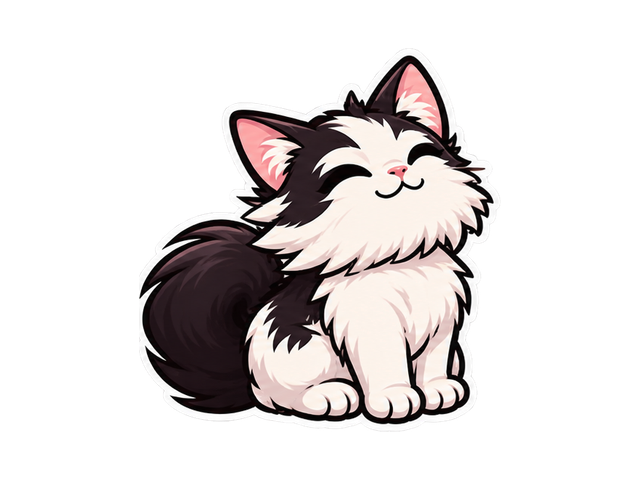
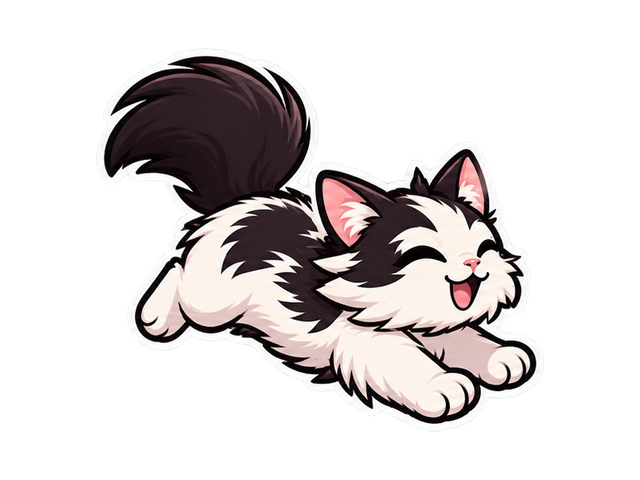
Fix tiny delivery, restore cocoa shower, animate chaos crossing

Changed region(s): [[0.1562, 0.0938, 0.8438, 0.9062]]

diff --git a/public/approved-art.js b/public/approved-art.js
@@ -1,18 +1,18 @@
 // Approved Director artwork; all animation stays replaceable and local to the effect layer.
 const base='/assets/reactions/';
-function img(parent,file,cls){const e=document.createElement('img');e.src=base+file;e.className=cls;e.alt='';e.draggable=false;parent.append(e);return e;}
+function img(parent,file,cls){const e=document.createElement('img');e.src=base+file+(file.startsWith('chaos-')?'?v=2':'');e.className=cls;e.alt='';e.draggable=false;parent.append(e);return e;}
 function node(parent,cls){const e=document.createElement('div');e.className=cls;parent.append(e);return e;}
 function sequence(parent,prefix,count,order,cls){const host=node(parent,cls);order.forEach((frame,i)=>{const e=img(host,`${prefix}-${frame}.png`,'art-frame');e.style.setProperty('--frame',i);e.style.setProperty('--frames',order.length);});host.style.setProperty('--cycle',order.length/7+'s');return host;}
 function label(parent,text){const e=node(parent,'art-caption');e.textContent=text;}
 export function renderApprovedArt(effect,layer,{width,height,user}){
  layer.classList.toggle('portrait-art',width<height);
  if(effect==='hello'){img(layer,'hello.png','approved-hello art-arrive');label(layer,`Welcome, ${user.slice(0,50)}. The faculty office saved you a seat.`);return true;}
- if(effect==='cocoa'){const mug=node(layer,'approved-cocoa art-arrive');img(mug,'cocoa-cup.png','art-fill');for(let i=0;i<6;i++){const m=img(mug,'cocoa-garnish.png','approved-garnish');m.style.setProperty('--i',i);}label(layer,'Marshmallow budget: exceeded.');return true;}
+ if(effect==='cocoa'){const mug=node(layer,'approved-cocoa art-arrive');img(mug,'cocoa-cup.png','art-fill');for(let i=0;i<45;i++){const m=img(mug,'cocoa-garnish.png','approved-garnish');m.style.left=40+Math.random()*330+'px';m.style.top=60+Math.random()*65+'px';m.style.width=45+Math.random()*30+'px';m.style.setProperty('--delay',Math.random()*.8+'s');m.style.setProperty('--drop',-(height*.7)+'px');m.style.setProperty('--spin',(Math.random()-.5)*420+'deg');}label(layer,'Marshmallow budget: exceeded.');return true;}
  if(effect==='hydrate'){img(layer,'hydrate.png','approved-hydrate');label(layer,'HYDRATION CHECK! Cat Girl, drink some water!');for(let i=0;i<8;i++){const s=node(layer,'art-sparkle');s.textContent=i%2?'✦':'💧';s.style.left=30+Math.random()*40+'%';s.style.top=25+Math.random()*30+'%';s.style.animationDelay=i*.1+'s';}return true;}
  if(effect==='mmm'){for(let i=0;i<32;i++){const e=img(layer,`rain-${i%6+1}.png`,'approved-rain');e.style.left=5+Math.random()*85+'%';e.style.width=64+Math.random()*50+'px';e.style.setProperty('--fall',height+250+'px');e.style.setProperty('--drift',(Math.random()-.5)*160+'px');e.style.setProperty('--turn',(Math.random()-.5)*320+'deg');e.style.animationDuration=3.7+Math.random()*.8+'s';e.style.animationDelay=Math.random()*.7+'s';}label(layer,'A purr-fect marshmallow situation.');return true;}
  if(effect==='flail'){sequence(layer,'flail',4,[1,2,1,3,4,3,2,4],'approved-flail');label(layer,'Maximum faculty enthusiasm.');return true;}
  if(effect==='cat'){const lane=node(layer,'approved-cat-lane');lane.style.setProperty('--travel',width+450+'px');img(lane,'paper-stack.png','approved-stack');sequence(lane,'run',6,[1,2,3,4,5,6],'approved-runner');for(let i=0;i<9;i++){const p=img(lane,`paper-${i%5+1}.png`,'approved-loose');p.style.setProperty('--dx',(i-4)*60+'px');p.style.setProperty('--turn',(i-4)*50+'deg');}label(layer,'The office has a new supervisor.');return true;}
- if(effect==='chaos'){sequence(layer,'chaos',4,[1,2,3,4],'approved-chaos');return true;}
+ if(effect==='chaos'){const runner=sequence(layer,'chaos',4,[1,2,3,2],'approved-chaos');runner.style.setProperty('--travel',width+550+'px');return true;}
  if(effect==='calculator'){img(layer,'calculator.png','approved-calculator');img(layer,'calculator-burst.png','approved-burst');for(let i=0;i<35;i++){const n=node(layer,'number-confetti');n.textContent=String(i%10);n.style.setProperty('--dx',(Math.random()-.5)*width*.8+'px');n.style.setProperty('--dy',(Math.random()-.5)*height*.7+'px');n.style.setProperty('--spin',Math.random()*600+'deg');n.style.setProperty('--color',['#efbedb','#ffde9b','#b8dba6'][i%3]);}label(layer,'The Dean has lost count. Thank you, '+user.slice(0,40));return true;}
  return false;
 }

diff --git a/public/approved-art.css b/public/approved-art.css
@@ -3,3 +3,9 @@
 @media(prefers-reduced-motion:reduce){.art-frame{animation:none;visibility:hidden}.art-frame:first-child{visibility:visible}.approved-flail,.approved-chaos,.approved-hydrate,.approved-runner,.approved-stack,.approved-garnish,.art-arrive{animation:none}.approved-runner{left:15%}.approved-loose,.approved-rain,.art-sparkle{display:none}}
 
 .approved-calculator{position:absolute;width:400px;height:520px;object-fit:contain;left:calc(50% - 200px);top:calc(45% - 260px);animation:calculator-burst 5.5s both}.approved-burst{position:absolute;width:700px;height:700px;object-fit:contain;left:calc(50% - 350px);top:calc(45% - 350px);animation:approved-burst 5.5s both}@keyframes approved-burst{0%,35%{opacity:0;transform:scale(.2)}45%,65%{opacity:1;transform:scale(1)}100%{opacity:0;transform:scale(1.15)}}@media(prefers-reduced-motion:reduce){.approved-calculator{animation:none}.approved-burst{display:none}}
+
+/* Restore the original cocoa shower: independently delayed falls, then clear. */
+.approved-garnish{height:auto;animation:cocoa-shower 4.6s both;animation-delay:var(--delay)}
+@keyframes cocoa-shower{0%{opacity:0;transform:translateY(var(--drop)) rotate(0deg)}12%{opacity:1}78%{opacity:1;transform:translateY(0) rotate(var(--spin))}100%{opacity:0;transform:translateY(45px) rotate(var(--spin))}}
+.approved-chaos{left:-520px;animation:approved-charge 5.5s linear both}
+@media(prefers-reduced-motion:reduce){.approved-garnish{display:none}.approved-chaos{animation:none;left:calc(50% - 250px)}}

diff --git a/public/effect-queue.js b/public/effect-queue.js
@@ -2,7 +2,7 @@
 export class EffectQueue {
   constructor(play,{schedule=(callback,ms)=>setTimeout(callback,ms),now=Date.now}={}){this.play=play;this.schedule=schedule;this.now=now;this.pending=[];this.busy=false;this.seen=new Set();}
   accept(e){
-    if(e?.schemaVersion!==1||e.type!=='stream.overlay.effect'||!['twitch','preview','director'].includes(e.source)||typeof e.eventId!=='string'||e.eventId.length>100||!['hello','cocoa','chaos','hydrate','mmm','cat','flail','calculator'].includes(e.payload?.effect)||typeof e.payload.user!=='string'||e.payload.user.length>100||e.payload.durationMs!==5500)return false;
+    if(e?.schemaVersion!==1||e.type!=='stream.overlay.effect'||!['twitch','preview','director'].includes(e.source)||typeof e.eventId!=='string'||e.eventId.length>100||!['hello','cocoa','chaos','hydrate','mmm','cat','flail','tiny','calculator'].includes(e.payload?.effect)||typeof e.payload.user!=='string'||e.payload.user.length>100||e.payload.durationMs!==5500)return false;
     if(this.seen.has(e.eventId)||this.pending.length>=4)return false;
     this.seen.add(e.eventId);if(this.seen.size>200)this.seen.delete(this.seen.values().next().value);
     this.pending.push({e,received:this.now()});this.next();return true;

diff --git a/public/overlay.html b/public/overlay.html
@@ -1,1 +1,1 @@
-<!doctype html><html lang="en"><head><meta charset="utf-8"><meta name="viewport" content="width=device-width,initial-scale=1"><title>Cocoa & Chaos & Spite · Transparent overlay</title><link rel="stylesheet" href="/overlay.css"><link rel="stylesheet" href="/new-effects.css"><link rel="stylesheet" href="/approved-art.css"><script src="/overlay.js" type="module"></script></head><body><div id="canvas" aria-live="polite"></div></body></html>
+<!doctype html><html lang="en"><head><meta charset="utf-8"><meta name="viewport" content="width=device-width,initial-scale=1"><title>Cocoa & Chaos & Spite · Transparent overlay</title><link rel="stylesheet" href="/overlay.css"><link rel="stylesheet" href="/new-effects.css"><link rel="stylesheet" href="/approved-art.css?v=3"><script src="/overlay.js?v=3" type="module"></script></head><body><div id="canvas" aria-live="polite"></div></body></html>

diff --git a/public/overlay.js b/public/overlay.js
@@ -1,6 +1,6 @@
-import {renderApprovedArt} from './approved-art.js';
+import {renderApprovedArt} from './approved-art.js?v=3';
 import {PcmPlayer} from './pcm-player.js';
-import {EffectQueue} from './effect-queue.js';
+import {EffectQueue} from './effect-queue.js?v=3';
 import {renderNewEffect} from './new-effects.js';
 const canvas=document.getElementById('canvas');let width=1920,height=1080;
 function resize(){canvas.style.width=width+'px';canvas.style.height=height+'px';canvas.style.transform=`scale(${Math.min(innerWidth/width,innerHeight/height)})`;}

diff --git a/scripts/prepare-artwork.py b/scripts/prepare-artwork.py
@@ -26,6 +26,27 @@ def save(im,name,box=(640,640)):
     target=Image.new('RGBA',box);target.alpha_composite(crop,((box[0]-crop.width)//2,int(box[1]*.90)-crop.height))
     target.save(OUT/name,optimize=True)
     report.append({'file':name,'size':box,'alphaExtrema':target.getchannel('A').getextrema(),'bytes':(OUT/name).stat().st_size})
+def chaos_frames(sheet,box):
+    # Separate touching source poses using eroded alpha seeds; expand back into original edges.
+    from collections import deque
+    small=sheet.getchannel('A').resize((600,200)).filter(ImageFilter.MinFilter(3))
+    mask=np.array(small)>128;components=[]
+    for y,x in np.argwhere(mask):
+        if not mask[y,x]: continue
+        q=deque([(int(y),int(x))]);mask[y,x]=False;points=[]
+        while q:
+            a,b=q.popleft();points.append((a,b))
+            for c,d in [(a-1,b),(a+1,b),(a,b-1),(a,b+1)]:
+                if 0<=c<200 and 0<=d<600 and mask[c,d]:mask[c,d]=False;q.append((c,d))
+        if len(points)>1000:components.append(points)
+    components.sort(key=lambda pts:min(x for y,x in pts))
+    assert len(components)==4
+    for i,points in enumerate(components):
+        mask=Image.new('L',(600,200));pixels=mask.load()
+        for y,x in points:pixels[x,y]=255
+        mask=mask.resize(sheet.size,Image.Resampling.NEAREST).filter(ImageFilter.MaxFilter(17))
+        a=np.array(sheet);a[:,:,3]=np.minimum(a[:,:,3],np.array(mask));save(Image.fromarray(a),f'chaos-{i+1}.png',box)
+
 save(clean('Chibi Cats Hydrate Sticker.png'),'hydrate.png',(900,700))
 save(clean('Cocoa & Chaos Mug Design.png'),'cocoa-cup.png')
 save(clean('Fluffy Marshmallow Paw Print.png'),'cocoa-garnish.png',(192,192))
@@ -35,7 +56,7 @@ for i,(n,bg) in enumerate([('Chibi Pink Plush Cat with Paw Pads.png',None),('Kaw
 for src,prefix,count,bg,box in [('Determined Black Cat Running Sequence.png','run',6,'white',(640,400)),('Flail - Chibi Catgirl Celebration Sprite Sheet.png','flail',4,'black',(768,768)),('chaos-mode-sprite.png','chaos',4,None,(640,480))]:
     sheet=clean(src,bg)
     if prefix=='chaos':
-        for i in range(4):save(sheet.crop((1625,0,2172,724)),f'chaos-{i+1}.png',box)
+        chaos_frames(sheet,box)
         continue
     for i in range(count): save(sheet.crop((round(i*sheet.width/count)+8,0,round((i+1)*sheet.width/count)-16,sheet.height)),f'{prefix}-{i+1}.png',box)
 papers=clean('Cute Cat-Themed Paper Sticker Sheet.png')

diff --git a/docs/APPROVED-ARTWORK-INTEGRATION.md b/docs/APPROVED-ARTWORK-INTEGRATION.md
@@ -13,3 +13,11 @@ tiny preserves the previous CSS/SVG marshmallow-cat effect. Safe default: subscr
 46 automated tests pass with a separate preview-only HTTP server using the configured localhost Host. Initial environment failures (missing preview server, sandbox isolation and an intentionally rejected mismatched Host) were resolved before this result. Browser portrait preview confirmed pink rain PNG loading and happy Cat Girl frames with transparent background. Hosted verification and Android confirmation must be recorded separately after deployment. Earlier PRISM recording success concerns the previous artwork and free beep only.
 
 Character avatar references and future BRB/trivia expansion are not enabled. Sebastian's voice/agent remain unchanged.
+
+## Director review corrections — November 2, 2026
+
+Director confirmed flail, running cat and pink marshmallow rain are perfect on Android PRISM; requested tiny fix, chaos traversal and falling cocoa garnish. Approved reactions and rain size were preserved.
+
+Fixed tiny browser queue allowlist omission; added command-to-queue-to-cleanup regression. Restored 45 independently delayed falling paw marshmallows in cocoa rather than six bobbing in a line. Extracted four distinct chaos poses with connected alpha segmentation; cat now traverses the screen while the existing falling papers remain. Existing role checks and cooldowns unchanged. All 47 tests pass. No desktop/live/paid changes.
+
+Browser verification discovered stale cached JS/CSS, so versioned overlay entry/module/style URLs were deployed. Hosted tiny now creates 32 legacy marshmallow cats. PRISM should reload the Web source to acquire build 3; add &build=3 before the private #access fragment if the app retains old HTML. No private link values recorded.
